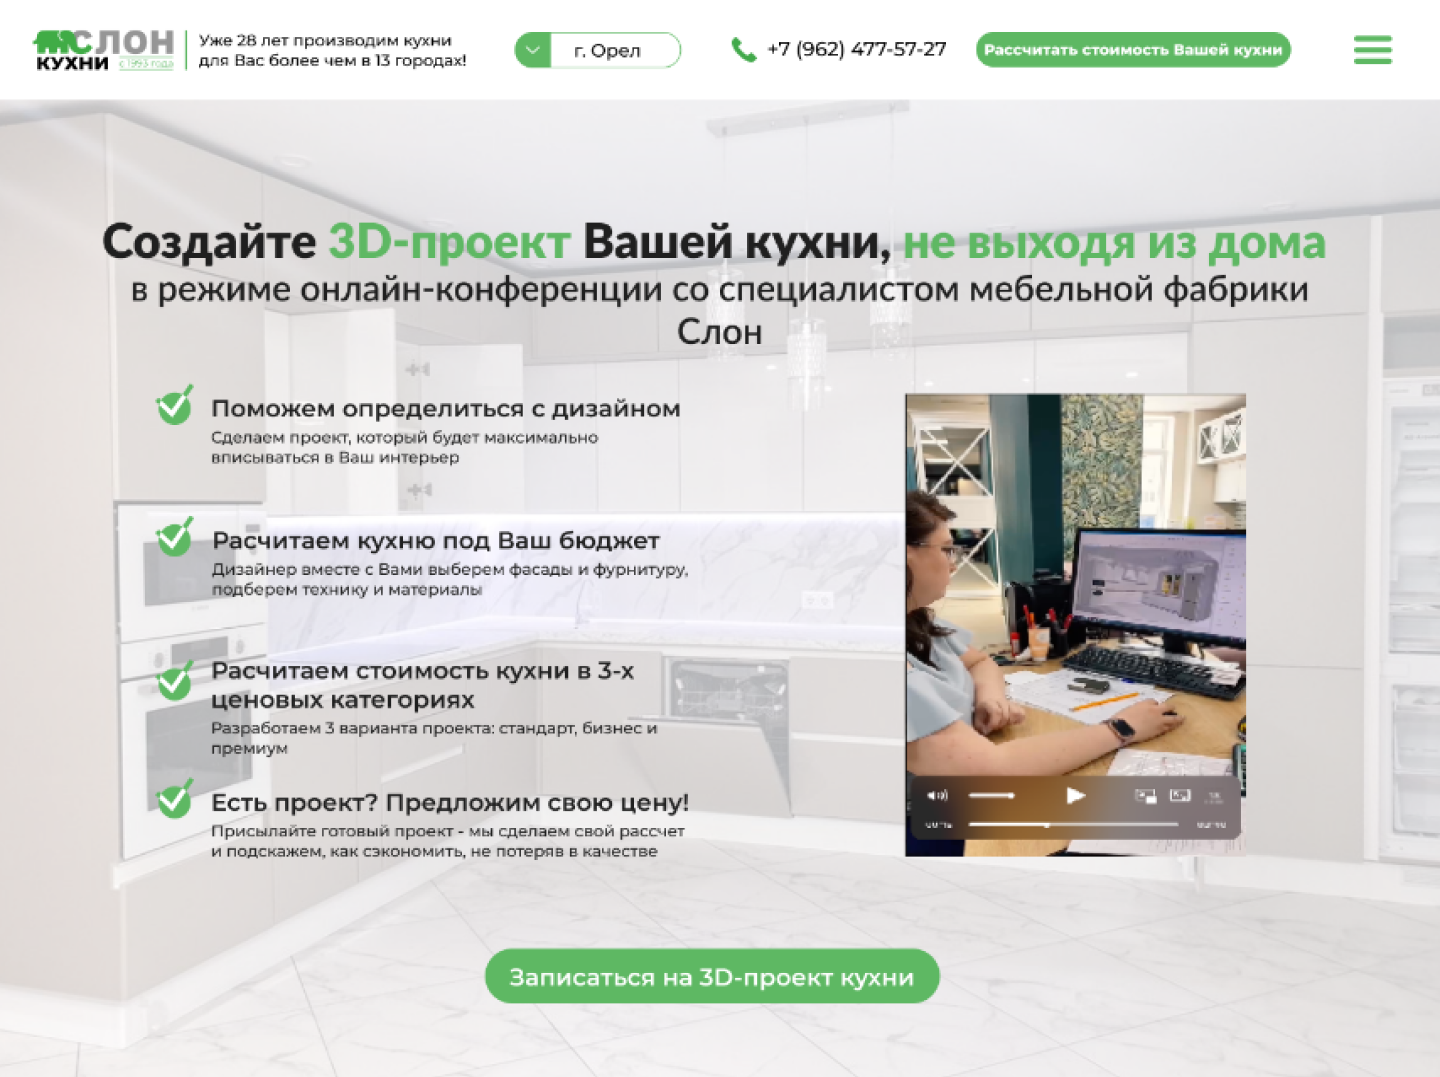
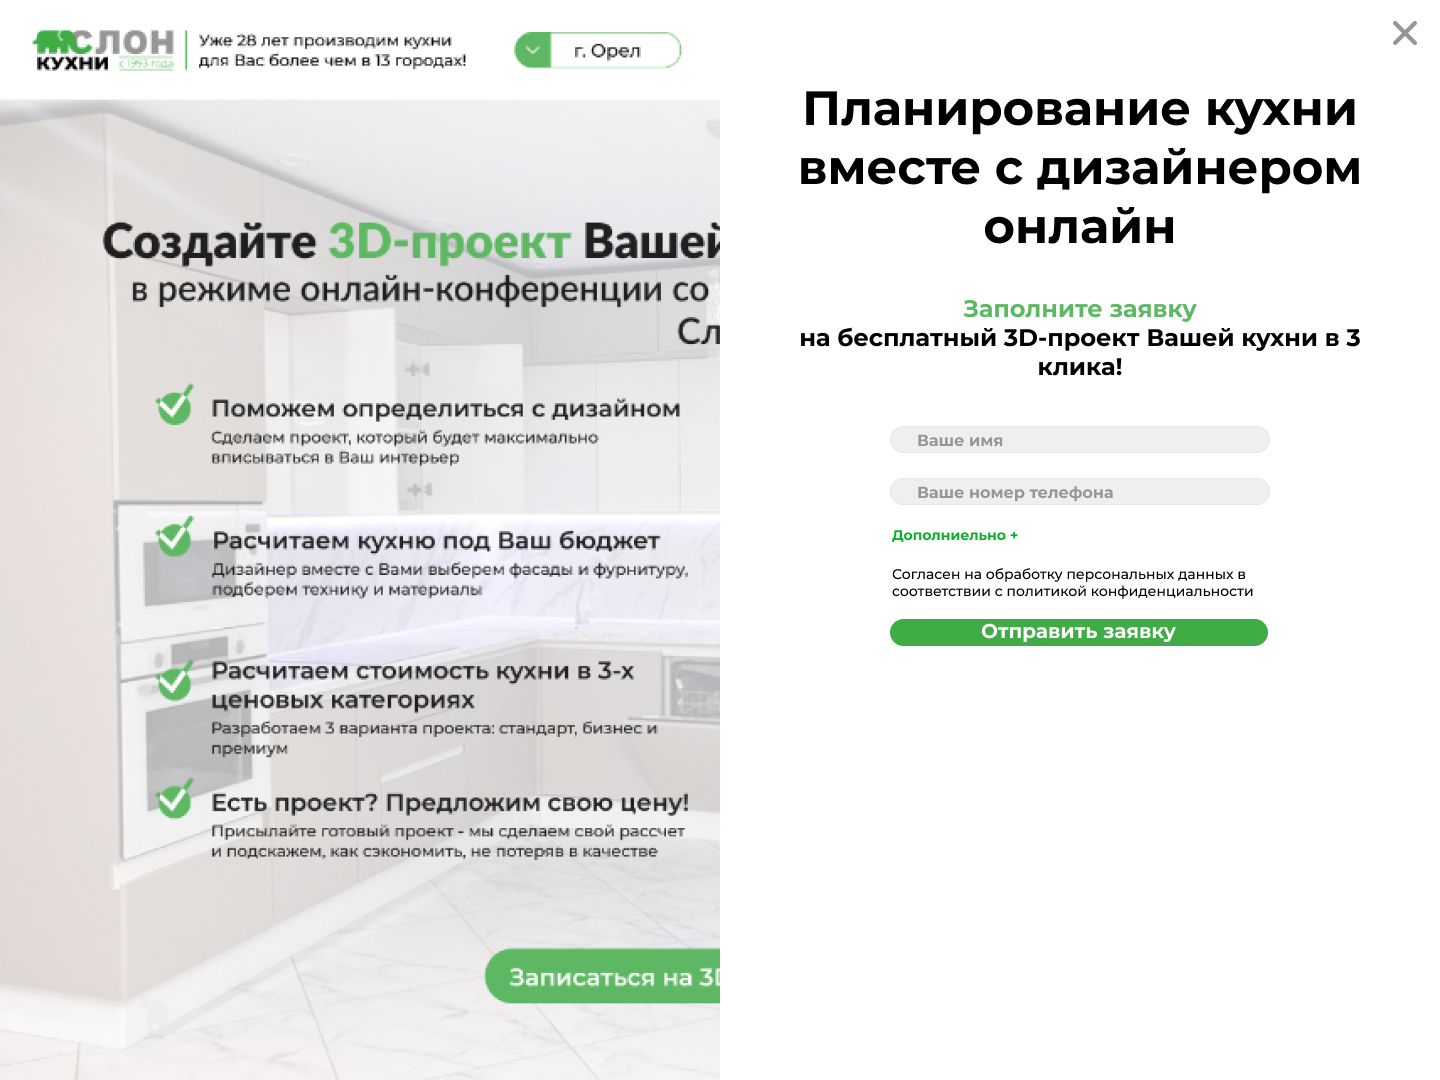
Fix: Замена файлов макета с выдвижной панелью на корректные

diff --git a/assets/css/style.css b/assets/css/style.css
@@ -1550,17 +1550,11 @@ form#register3DProjecting .modal_Inp_File_Label {
   z-index: 6;
 }
 
-modal_Form_Online_conference p {
-  font-family: Montserrat;
-  font-style: normal;
-  font-weight: normal;
-  font-size: 16px;
+.modal_Form_Online_conference p {
+  font-weight: 500;
+  font-size: 20px;
   line-height: 120%;
   color: #444444;
-}
-
-.modal_Form_Online_conference .modal_Title {
-  margin-bottom: 30px;
 }
 
 .modal_Form_Online_conference form {
@@ -1568,10 +1562,15 @@ modal_Form_Online_conference p {
 }
 
 .modal_Form_Online_conference .modal_Title {
+    width: 100%;
+    text-align: center;
+    
   font-weight: 700;
-  font-size: 20px;
+  font-size: 24px;
   line-height: 120%;
   color: #000000;
+    
+  margin-bottom: 30px;
 }
 
 .online-conf-label {
@@ -1584,6 +1583,13 @@ modal_Form_Online_conference p {
   margin-bottom: 0;
 }
 
+.modal_Form_Online_conference form input {
+    font-size: 20px;
+}
+
+.modal_Form_Online_conference form label {
+    font-size: 18px;
+}
 /* Модальные окна - кон */
 
 
@@ -2366,4 +2372,40 @@ modal_Form_Online_conference p {
     }
 }
 
+/*      Медиаторы с другого лендинга      */
+@media (max-height: 900px) {
+  .modal_Form_Online_conference,
+  .modal_Form_Online_conference-second {
+    height: 100%;
+    top: 0;
+    max-height: 100%;
+    justify-content: normal;
+    overflow-y: auto;
+  }
+}
+
+@media (max-width: 991px) {
+  .modal_Form_Online_conference {
+      left: 0; top: 0;
+        width: 100%;
+        max-width: 100%;
+      overflow-y: scroll;
+      padding: 10px;
+  }
+}
+
+@media (max-width: 767px) {
+  .modal_Form_Online_conference {
+    height: 100%;
+    max-height: 100%;
+    justify-content: normal;
+    overflow-y: auto;
+  }
+  .modal_Form_Online_conference p{
+    font-size: 12px;
+  }
+  .modal_Form_Online_conference .modal_Title {
+    font-size: 16px;
+  }
+}
 /* Адаптив - кон */

diff --git a/index.html b/index.html
@@ -1110,7 +1110,10 @@
         
         <!-- Онлайн-консультация -->
         <section class="modal_Form_Online_conference">
-            <p class="w-100 d-flex justify-content-end"><a class="top_bar_modal justify-content-end" onclick="closeModal('modal_Form_Online_conference')"><i class="fa fa-close"></i></a></p>
+            <div class="row col-12 justify-content-end">
+                <button class="modal-close" onclick="closeModal('modal_Form_Online_conference')"></button>
+            </div>   
+            
             <h3 class="modal_Title">Планирование кухни вместе с дизайнером онлайн</h3>
 
             <p>Создайте проект кухни, не выходя из дома в режиме онлайн-конференции со специалистом мебельной фабрики Слон.</p>
